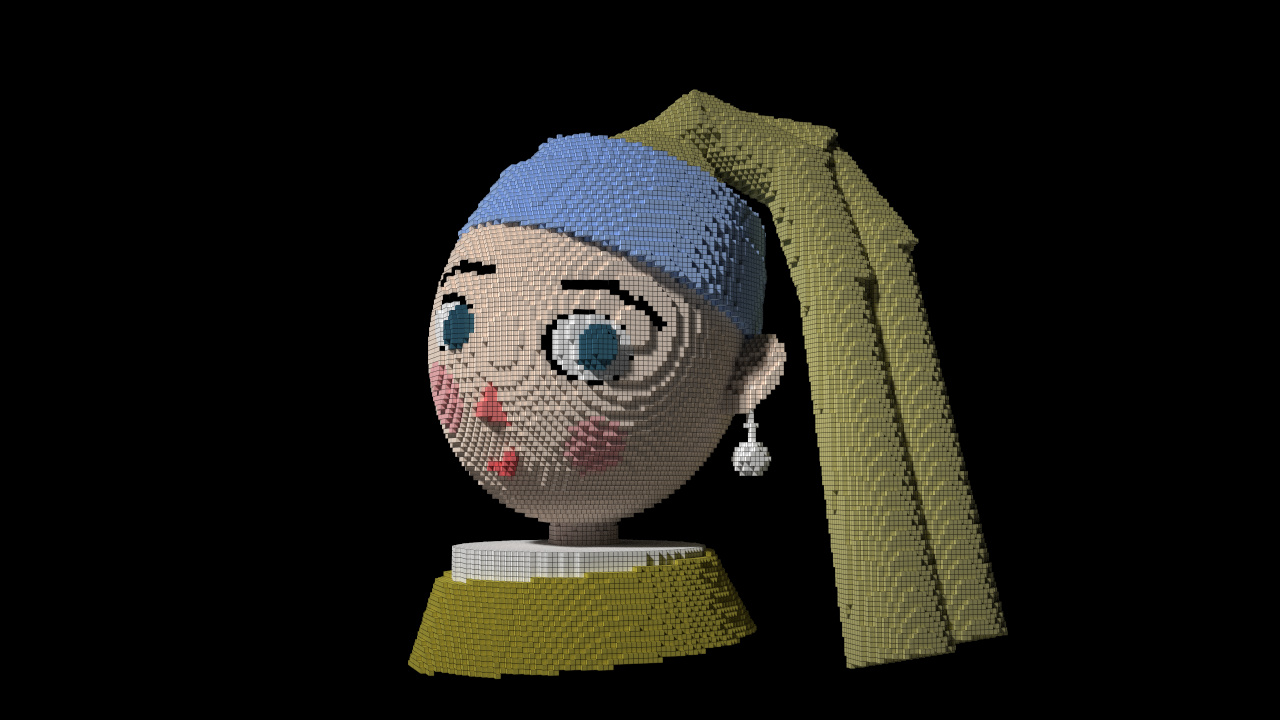
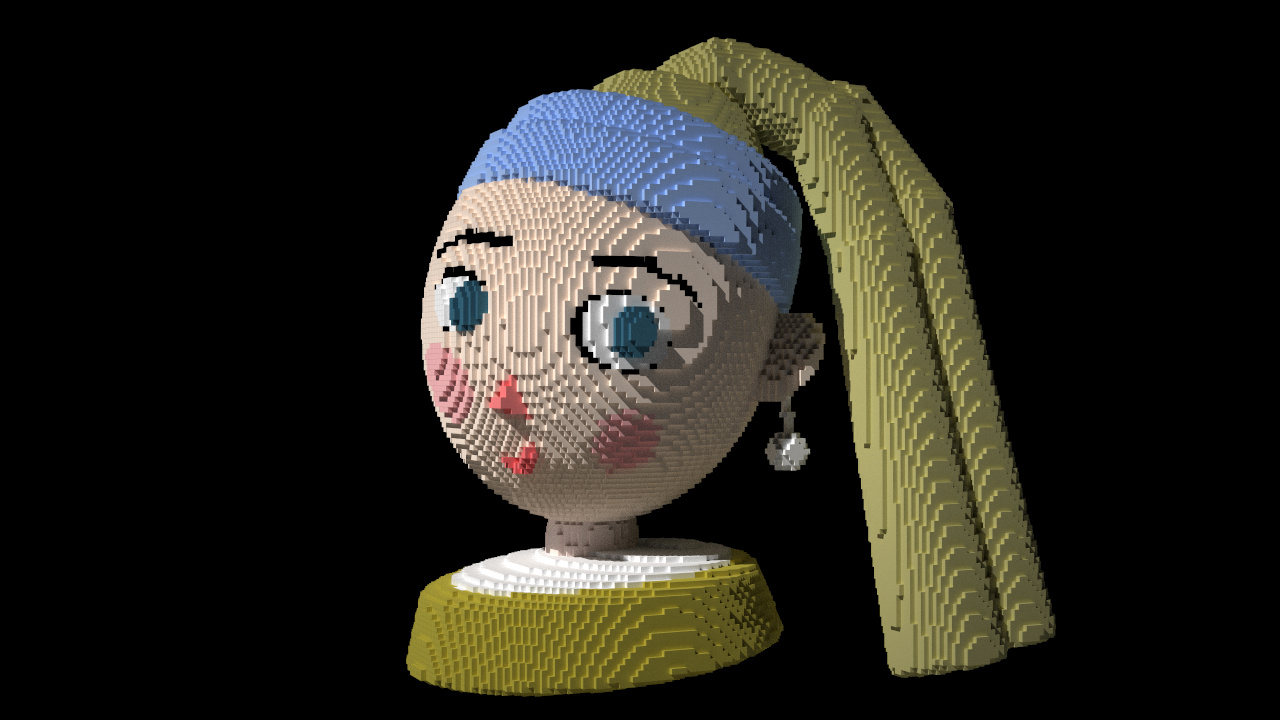
more prim params

Changed region(s): [[0.3125, 0.0306, 0.8438, 0.9778]]

diff --git a/main.py b/main.py
@@ -1,75 +1,80 @@
 from scene import Scene
 import taichi as ti
 from taichi.math import *
-scene = Scene(exposure=1)
+scene = Scene(voxel_edges=0.01, exposure=1)
 scene.set_floor(-64, (1.0, 1.0, 1.0))
 scene.set_background_color((0, 0, 0))
-scene.set_directional_light((-1, 1, 0.5), 0.1, (1, 1, 1))
+scene.set_directional_light((-1, 1, 0.3), 0.0, (1, 1, 1))
 @ti.func
-def rgbTo01(r,g,b):
+def rgb(r,g,b):
     return vec3(r/255.0, g/255.0, b/255.0)
 @ti.func
 def proj_plane(o, n, t, p): 
     y = dot(p-o,n);xz=p-(o+n*y);bt=cross(t,n);return vec3(dot(xz,t), y, dot(xz, bt))
 @ti.func
-def ellipsoid(rx,ry,rz,p_unuse,pos):
-    r = pos/vec3(rx,ry,rz); return ti.sqrt(dot(r,r))<1
+def elli(rx,ry,rz,p1_unused,p2_unused,p3_unused,p):
+    r = p/vec3(rx,ry,rz); return ti.sqrt(dot(r,r))<1
 @ti.func
-def cylinder(r1,h,r2,cone,pos):
-    r = vec2(pos.x/r1,pos.z/r2); return ti.sqrt(dot(r,r)) < mix(1.0-cone, 1.0, float(h-pos.y)*0.5/h) and pos.y<h and pos.y>-h
+def cyli(r1,h,r2,round, cone, hole_unused, p):
+    ms=min(r1,min(h,r2));rr=ms*round;rt=mix(cone*(max(ms-rr,0)),0,float(h-p.y)*0.5/h);r=vec2(p.x/r1,p.z/r2)
+    d=vec2((r.norm()-1.0)*ms+rt,ti.abs(p.y)-h)+rr; return min(max(d.x,d.y),0.0)+max(d,0.0).norm()-rr<0
 @ti.func
-def box(x,y,z,round,pos):
-    return pos.x<x and pos.x>-x and pos.z<z and pos.z>-z and pos.y<y and pos.y>-y
+def box(x, y, z, round, cone, unused, p):
+    ms=min(x,min(y,z));rr=ms*round;rt=mix(cone*(max(ms-rr,0)),0,float(y-p.y)*0.5/y);q=ti.abs(p)-vec3(x-rt,y,z-rt)+rr
+    return ti.max(q, 0.0).norm() + ti.min(ti.max(q.x, ti.max(q.y, q.z)), 0.0) - rr< 0
 @ti.func
-def make_implicit(func: ti.template(), p1, p2, p3, p4, pos, dir, up, color, mat, mode):
+def tri(r1, h, r2, round_unused, cone, vertex, p):
+    r = vec3(p.x/r1, p.y, p.z/r2);rt=mix(1.0-cone,1.0,float(h-p.y)*0.5/h);r.z+=(r.x+1)*mix(-0.577, 0.577, vertex)
+    q = ti.abs(r); return max(q.y-h,max(q.z*0.866025+r.x*0.5,-r.x)-0.5*rt)< 0
+@ti.func
+def make(func: ti.template(), p1, p2, p3, p4, p5, p6, pos, dir, up, color, mat, mode):
     max_r = 2 * int(max(p3,max(p1, p2))); dir = normalize(dir); up = normalize(cross(cross(dir, up), dir))
     for i,j,k in ti.ndrange((-max_r,max_r),(-max_r,max_r),(-max_r,max_r)): 
         xyz = proj_plane(vec3(0.0,0.0,0.0), dir, up, vec3(i,j,k))
-        if func(p1,p2,p3,p4, xyz):
-            if mode == 0: # additive
-                scene.set_voxel(pos + vec3(i,j,k), mat, color)
-            if mode == 1: # subtractive
-                scene.set_voxel(pos + vec3(i,j,k), 0, color)
-            if mode == 2:
-                mat, c = scene.get_voxel(pos + vec3(i,j,k)) # rep, only color
-                if mat > 0:
-                    scene.set_voxel(pos + vec3(i,j,k), mat, color)
+        if func(p1,p2,p3,p4,p5,p6,xyz):
+            if mode == 0: scene.set_voxel(pos + vec3(i,j,k), mat, color) # additive
+            if mode == 1: scene.set_voxel(pos + vec3(i,j,k), 0, color) # subtractive
+            if mode == 2 and scene.get_voxel(pos + vec3(i,j,k))[0] > 0: scene.set_voxel(pos + vec3(i,j,k), mat, color)
 @ti.kernel
 def initialize_voxels():
-    make_implicit(ellipsoid, 35.9, 41.8, 34.4, 0.0, vec3(-16,8,-22), vec3(0.3,1.0,-0.1), vec3(0.7,-0.3,-0.7), rgbTo01(255,217,187), 1, 0)
-    make_implicit(cylinder, 33.8, 10.9, 32.9, 0.2, vec3(-6,30,-23), vec3(0.4,0.9,-0.1), vec3(0.9,-0.4,0.0), rgbTo01(114,161,255), 1, 0)
-    make_implicit(ellipsoid, 11.1, 10.6, 2.9, 0.0, vec3(-23,-17,8), vec3(0.4,0.8,0.6), vec3(0.9,-0.4,-0.1), rgbTo01(255,141,143), 1, 2)
-    make_implicit(ellipsoid, 10.2, 7.7, 15.3, 0.0, vec3(-45,-4,-18), vec3(-0.4,0.9,0.2), vec3(0.1,-0.2,1.0), rgbTo01(255,141,143), 1, 2)
-    make_implicit(ellipsoid, 9.6, 7.2, 6.2, 0.0, vec3(-27,3,12), vec3(0.2,1.0,0.2), vec3(0.9,-0.3,0.2), rgbTo01(0,0,0), 1, 2)
-    make_implicit(ellipsoid, 8.3, 6.5, 8.6, 0.0, vec3(-26,3,11), vec3(0.3,1.0,0.1), vec3(0.9,-0.3,0.2), rgbTo01(255,255,255), 1, 2)
-    make_implicit(ellipsoid, 4.1, 4.7, 2.3, 0.0, vec3(-25,3,12), vec3(0.2,1.0,0.1), vec3(0.9,-0.3,0.3), rgbTo01(12,41,60), 1, 0)
-    make_implicit(ellipsoid, 9.9, 6.9, 3.6, 0.0, vec3(-51,9,-11), vec3(0.3,0.9,0.1), vec3(0.2,-0.2,1.0), rgbTo01(0,0,0), 1, 2)
-    make_implicit(ellipsoid, 8.7, 5.3, 12.1, 0.0, vec3(-47,8,-12), vec3(0.3,0.9,0.1), vec3(0.2,-0.2,1.0), rgbTo01(255,255,255), 1, 2)
-    make_implicit(ellipsoid, 4.1, 4.7, 1.5, 0.0, vec3(-49,8,-7), vec3(0.2,1.0,0.1), vec3(0.4,-0.2,0.9), rgbTo01(12,41,60), 1, 0)
-    make_implicit(box, 5.3, 3.9, 1.0, 0.0, vec3(-19,13,12), vec3(0.8,-0.5,0.2), vec3(-0.2,0.1,1.0), rgbTo01(0,0,0), 1, 2)
-    make_implicit(cylinder, 12.2, 16.2, 9.7, 0.4, vec3(-17,-44,-25), vec3(-0.0,1.0,0.0), vec3(0.8,0.0,-0.7), rgbTo01(255,212,195), 1, 0)
-    make_implicit(cylinder, 36.8, 8.6, 36.8, 0.2, vec3(-20,-50,-18), vec3(-0.1,1.0,0.0), vec3(0.9,0.1,-0.5), rgbTo01(140,123,17), 1, 0)
-    make_implicit(cylinder, 27.4, 3.1, 26.6, 0.0, vec3(-20,-41,-18), vec3(-0.0,1.0,-0.0), vec3(0.8,-0.0,-0.7), rgbTo01(255,255,255), 1, 0)
-    make_implicit(cylinder, 27.4, 3.1, 26.6, 0.0, vec3(-20,-41,-18), vec3(-0.0,1.0,-0.0), vec3(0.8,-0.0,-0.7), rgbTo01(255,255,255), 1, 0)
-    make_implicit(box, 3.8, 6.4, 1.2, 0.0, vec3(-45,20,-8), vec3(0.2,-0.1,1.0), vec3(-0.9,0.4,0.3), rgbTo01(0,0,0), 1, 2)
-    make_implicit(cylinder, 25.7, 9.1, 26.2, 0.6, vec3(0,43,-25), vec3(0.4,0.9,-0.1), vec3(0.9,-0.4,0.0), rgbTo01(142,134,57), 1, 0)
-    make_implicit(ellipsoid, 11.6, 9.1, 12.7, 0.0, vec3(3,48,-26), vec3(0.4,0.9,-0.1), vec3(0.9,-0.4,0.0), rgbTo01(142,134,57), 1, 0)
-    make_implicit(cylinder, 10.6, 41.6, 11.3, 0.4, vec3(34,-19,10), vec3(-0.1,1.0,-0.2), vec3(1.0,0.0,-0.1), rgbTo01(142,134,57), 1, 0)
-    make_implicit(cylinder, 8.0, 16.1, 8.1, 0.1, vec3(29,32,-3), vec3(-0.2,0.9,-0.3), vec3(1.0,0.1,-0.2), rgbTo01(142,134,57), 1, 0)
-    make_implicit(cylinder, 8.0, 16.1, 8.1, 0.1, vec3(18,49,-13), vec3(-0.8,0.5,-0.4), vec3(0.6,0.7,-0.4), rgbTo01(142,134,57), 1, 0)
-    make_implicit(cylinder, 8.0, 16.1, 8.1, 0.0, vec3(1,49,-25), vec3(-0.6,-0.5,-0.6), vec3(0.6,0.2,-0.8), rgbTo01(142,134,57), 1, 0)
-    make_implicit(cylinder, 10.6, 44.9, 11.3, 0.4, vec3(47,-13,7), vec3(-0.1,1.0,-0.2), vec3(1.0,0.0,-0.1), rgbTo01(142,134,57), 1, 0)
-    make_implicit(cylinder, 8.0, 16.1, 8.1, 0.6, vec3(39,39,-6), vec3(-0.4,0.9,-0.3), vec3(0.9,0.3,-0.3), rgbTo01(142,134,57), 1, 0)
-    make_implicit(cylinder, 5.3, 16.1, 5.3, 1.0, vec3(22,56,-16), vec3(-0.8,0.4,-0.5), vec3(0.6,0.7,-0.4), rgbTo01(142,134,57), 1, 0)
-    make_implicit(ellipsoid, 2.0, 10.2, 7.5, 0.0, vec3(11,-1,1), vec3(0.6,0.8,0.1), vec3(0.6,-0.4,-0.7), rgbTo01(255,217,187), 1, 0)
-    make_implicit(ellipsoid, 3.7, 3.7, 3.7, 0.0, vec3(11,-19,4), vec3(0.4,0.9,-0.1), vec3(0.6,-0.4,-0.7), rgbTo01(255,255,255), 1, 0)
-    make_implicit(cylinder, 1.0, 8.8, 1.0, 0.0, vec3(11,-12,4), vec3(0.0,1.0,-0.1), vec3(0.0,-0.1,-1.0), rgbTo01(255,255,255), 1, 0)
-    make_implicit(cylinder, 34.7, 8.6, 35.9, 0.1, vec3(-10,24,-22), vec3(0.4,0.9,-0.1), vec3(0.9,-0.4,0.0), rgbTo01(114,161,255), 1, 0)
-    make_implicit(box, 5.3, 5.9, 1.0, 0.0, vec3(-26,15,10), vec3(0.9,-0.0,0.3), vec3(-0.3,0.1,0.9), rgbTo01(0,0,0), 1, 2)
-    make_implicit(box, 3.8, 8.1, 1.0, 0.0, vec3(-48,20,-17), vec3(0.3,0.2,0.9), vec3(-0.9,0.3,0.2), rgbTo01(0,0,0), 1, 2)
-    make_implicit(box, 1.1, 2.0, 1.1, 0.0, vec3(-40,-21,-7), vec3(0.7,-0.5,0.5), vec3(0.1,-0.5,-0.8), rgbTo01(255,54,58), 1, 0)
-    make_implicit(box, 1.1, 3.2, 1.1, 0.0, vec3(-39,-20,-3), vec3(-0.1,0.6,0.8), vec3(0.8,-0.5,0.4), rgbTo01(255,54,58), 1, 0)
-    make_implicit(box, 4.6, 17.5, 6.0, 0.0, vec3(-36,5,-5), vec3(0.3,0.9,0.0), vec3(0.9,-0.3,0.0), rgbTo01(255,70,70), 1, 0)
-    make_implicit(box, 5.3, 3.9, 1.0, 0.0, vec3(-14,10,13), vec3(0.7,-0.7,0.2), vec3(-0.2,0.1,1.0), rgbTo01(0,0,0), 1, 2)
+    make(elli,35.9,41.8,34.4,0.0,0.0,0.0,vec3(-16,8,-22),vec3(0.3,1.0,-0.1),vec3(0.7,-0.3,-0.7),rgb(255,217,187),1,0)
+    make(cyli,33.8,10.9,32.9,0.4,0.2,0.0,vec3(-6,30,-23),vec3(0.4,0.9,-0.1),vec3(0.9,-0.4,0.0),rgb(114,161,255),1,0)
+    make(elli,11.1,10.6,2.9,0.0,0.0,0.0,vec3(-23,-17,8),vec3(0.4,0.8,0.6),vec3(0.9,-0.4,-0.1),rgb(255,141,143),1,2)
+    make(elli,10.2,7.7,15.3,0.0,0.0,0.0,vec3(-45,-4,-18),vec3(-0.4,0.9,0.2),vec3(0.1,-0.2,1.0),rgb(255,141,143),1,2)
+    make(elli,9.6,7.2,6.2,0.0,0.0,0.0,vec3(-27,3,12),vec3(0.2,1.0,0.2),vec3(0.9,-0.3,0.2),rgb(0,0,0),1,2)
+    make(elli,8.3,6.5,8.6,0.0,0.0,0.0,vec3(-26,3,11),vec3(0.3,1.0,0.1),vec3(0.9,-0.3,0.2),rgb(255,255,255),1,2)
+    make(elli,4.1,4.7,2.3,0.0,0.0,0.0,vec3(-25,3,12),vec3(0.2,1.0,0.1),vec3(0.9,-0.3,0.3),rgb(12,41,60),1,0)
+    make(elli,9.9,6.9,3.6,0.0,0.0,0.0,vec3(-51,9,-11),vec3(0.3,0.9,0.1),vec3(0.2,-0.2,1.0),rgb(0,0,0),1,2)
+    make(elli,8.7,5.3,12.1,0.0,0.0,0.0,vec3(-47,8,-12),vec3(0.3,0.9,0.1),vec3(0.2,-0.2,1.0),rgb(255,255,255),1,2)
+    make(elli,4.1,4.7,1.5,0.0,0.0,0.0,vec3(-49,8,-7),vec3(0.2,1.0,0.1),vec3(0.4,-0.2,0.9),rgb(12,41,60),1,0)
+    make(box,5.3,3.9,1.0,0.2,0.7,0.0,vec3(-19,13,12),vec3(0.8,-0.5,0.2),vec3(-0.2,0.1,1.0),rgb(0,0,0),1,2)
+    make(cyli,12.2,12.1,9.7,0.7,0.7,0.0,vec3(-17,-40,-25),vec3(-0.0,1.0,0.0),vec3(0.8,0.0,-0.7),rgb(255,212,195),1,0)
+    make(cyli,36.8,8.6,36.8,0.3,0.2,0.0,vec3(-20,-50,-18),vec3(-0.1,1.0,0.0),vec3(0.9,0.1,-0.5),rgb(140,123,17),1,0)
+    make(cyli,27.4,3.1,26.6,1.0,0.0,0.0,vec3(-20,-42,-18),vec3(-0.1,1.0,-0.0),vec3(1.0,0.1,0.1),rgb(255,255,255),1,0)
+    make(tri,31.5,24.3,53.7,0.1,0.0,0.5,vec3(23,-41,33),vec3(0.5,0.5,0.7),vec3(0.8,0.1,-0.7),rgb(145,123,0),1,1)
+    make(box,3.8,6.4,1.2,0.2,0.0,0.0,vec3(-45,20,-8),vec3(0.2,-0.1,1.0),vec3(-0.9,0.4,0.3),rgb(0,0,0),1,2)
+    make(cyli,25.7,9.1,26.2,0.3,0.6,0.0,vec3(0,43,-25),vec3(0.4,0.9,-0.1),vec3(0.9,-0.4,0.0),rgb(142,134,57),1,0)
+    make(elli,11.6,9.1,12.7,0.0,0.0,0.0,vec3(3,48,-26),vec3(0.4,0.9,-0.1),vec3(0.9,-0.4,0.0),rgb(142,134,57),1,0)
+    make(cyli,10.6,41.6,11.3,0.2,0.4,0.0,vec3(34,-19,10),vec3(-0.1,1.0,-0.2),vec3(1.0,0.0,-0.1),rgb(142,134,57),1,0)
+    make(cyli,8.0,16.1,8.1,0.1,0.1,0.0,vec3(29,32,-3),vec3(-0.2,0.9,-0.3),vec3(1.0,0.1,-0.2),rgb(142,134,57),1,0)
+    make(cyli,8.0,12.5,8.1,0.2,0.1,0.0,vec3(19,50,-13),vec3(-0.8,0.5,-0.4),vec3(0.5,0.9,0.1),rgb(142,134,57),1,0)
+    make(cyli,8.0,16.1,8.1,0.2,0.0,0.0,vec3(1,49,-25),vec3(-0.6,-0.5,-0.6),vec3(0.6,0.2,-0.8),rgb(142,134,57),1,0)
+    make(cyli,10.6,44.9,11.3,0.2,0.4,0.0,vec3(47,-13,7),vec3(-0.1,1.0,-0.2),vec3(1.0,0.0,-0.1),rgb(142,134,57),1,0)
+    make(cyli,8.0,16.1,8.1,0.2,0.6,0.0,vec3(39,39,-6),vec3(-0.4,0.9,-0.3),vec3(0.9,0.3,-0.3),rgb(142,134,57),1,0)
+    make(cyli,5.3,16.1,5.3,0.2,1.0,0.0,vec3(21,54,-15),vec3(-0.9,0.3,-0.4),vec3(0.5,0.8,-0.4),rgb(142,134,57),1,0)
+    make(elli,2.0,10.2,7.5,0.0,0.0,0.0,vec3(11,-1,1),vec3(0.6,0.8,0.1),vec3(0.6,-0.4,-0.7),rgb(255,217,187),1,0)
+    make(elli,3.7,3.7,3.7,0.0,0.0,0.0,vec3(11,-19,4),vec3(0.4,0.9,-0.1),vec3(0.6,-0.4,-0.7),rgb(255,255,255),1,0)
+    make(cyli,1.0,8.8,1.0,0.0,0.0,0.0,vec3(11,-12,4),vec3(0.0,1.0,-0.1),vec3(0.0,-0.1,-1.0),rgb(255,255,255),1,0)
+    make(cyli,34.7,8.6,35.9,0.4,0.1,0.0,vec3(-10,24,-22),vec3(0.4,0.9,-0.1),vec3(0.9,-0.4,0.0),rgb(114,161,255),1,0)
+    make(box,5.3,5.9,1.0,0.2,0.0,0.0,vec3(-26,15,10),vec3(0.9,-0.0,0.3),vec3(-0.3,0.1,0.9),rgb(0,0,0),1,2)
+    make(box,3.8,8.1,1.0,0.2,0.7,0.0,vec3(-48,20,-17),vec3(0.3,0.2,0.9),vec3(-0.9,0.3,0.2),rgb(0,0,0),1,2)
+    make(box,1.1,2.0,1.1,0.2,0.2,0.0,vec3(-40,-21,-7),vec3(0.7,-0.5,0.5),vec3(0.1,-0.5,-0.8),rgb(255,54,58),1,0)
+    make(box,1.1,3.2,1.1,0.2,0.2,0.0,vec3(-39,-20,-3),vec3(-0.1,0.6,0.8),vec3(0.8,-0.5,0.4),rgb(255,54,58),1,0)
+    make(box,4.6,17.5,6.0,0.2,1.0,0.0,vec3(-36,5,-5),vec3(0.3,0.9,0.0),vec3(0.9,-0.3,0.0),rgb(255,70,70),1,0)
+    make(box,5.3,3.9,1.0,0.2,0.7,0.0,vec3(-14,10,13),vec3(0.7,-0.7,0.2),vec3(-0.2,0.1,1.0),rgb(0,0,0),1,2)
+    make(elli,8.0,8.0,8.0,0.0,0.0,0.0,vec3(9,55,-18),vec3(-0.6,-0.5,-0.6),vec3(0.6,0.2,-0.8),rgb(142,134,57),1,0)
+    make(elli,8.0,8.0,8.0,0.0,0.0,0.0,vec3(27,45,-8),vec3(-0.8,0.5,-0.4),vec3(0.5,0.9,0.1),rgb(142,134,57),1,0)
+    make(elli,8.0,19.2,8.0,0.0,0.0,0.0,vec3(20,51,-13),vec3(-0.8,0.5,-0.4),vec3(0.5,0.9,0.1),rgb(142,134,57),1,0)
+    make(elli,8.0,15.2,9.5,0.0,0.0,0.0,vec3(5,52,-22),vec3(-0.6,-0.5,-0.6),vec3(0.6,0.2,-0.8),rgb(142,134,57),1,0)
 initialize_voxels()
 scene.finish()

diff --git a/README.md b/README.md
@@ -1,9 +1,13 @@
 # Taichi Voxel Challenge
 
+maajor's submission to Taichi Voxel Challenge
+
 ![](./girl_with_pearl_ring.jpg)
 
-
+To run:  
 ```sh
 pip3 install -r requirements.txt
 python3 main.py
 ```
+
+A lot of inspiration from [IQ's sdf article](https://iquilezles.org/articles/distfunctions/)
